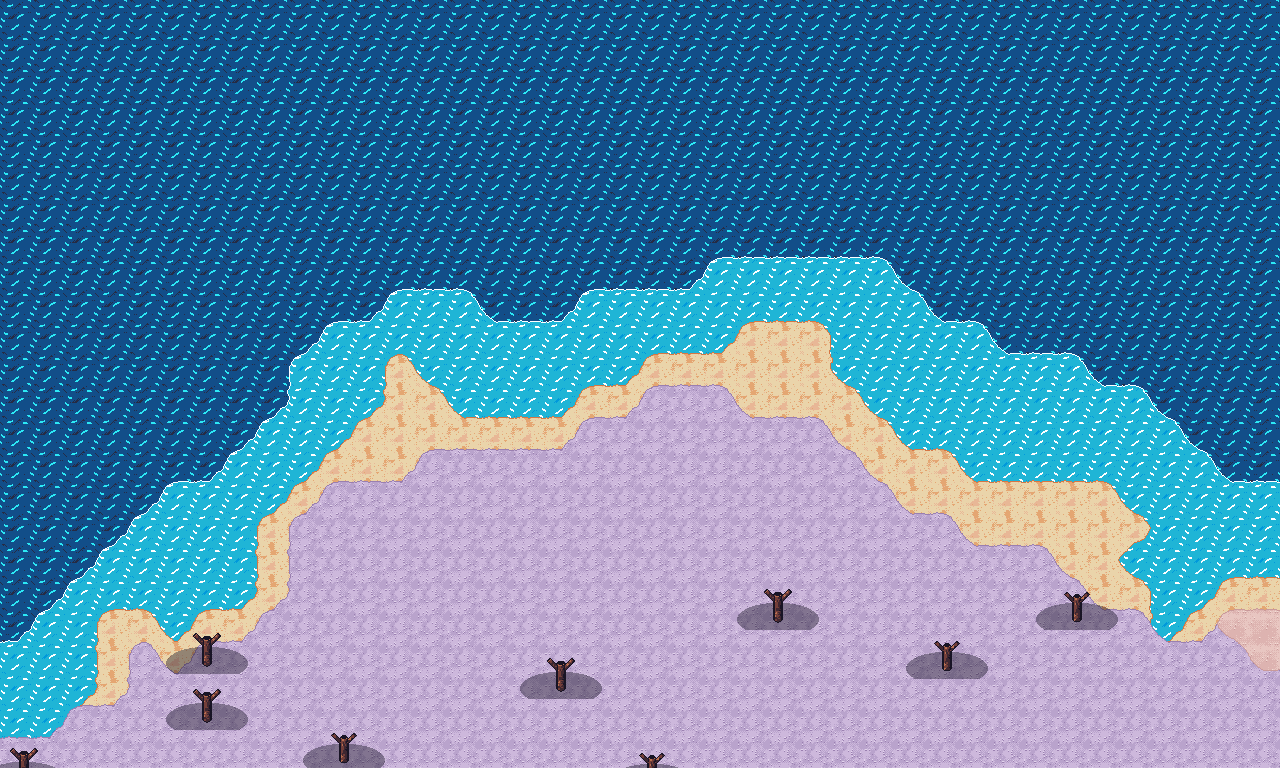
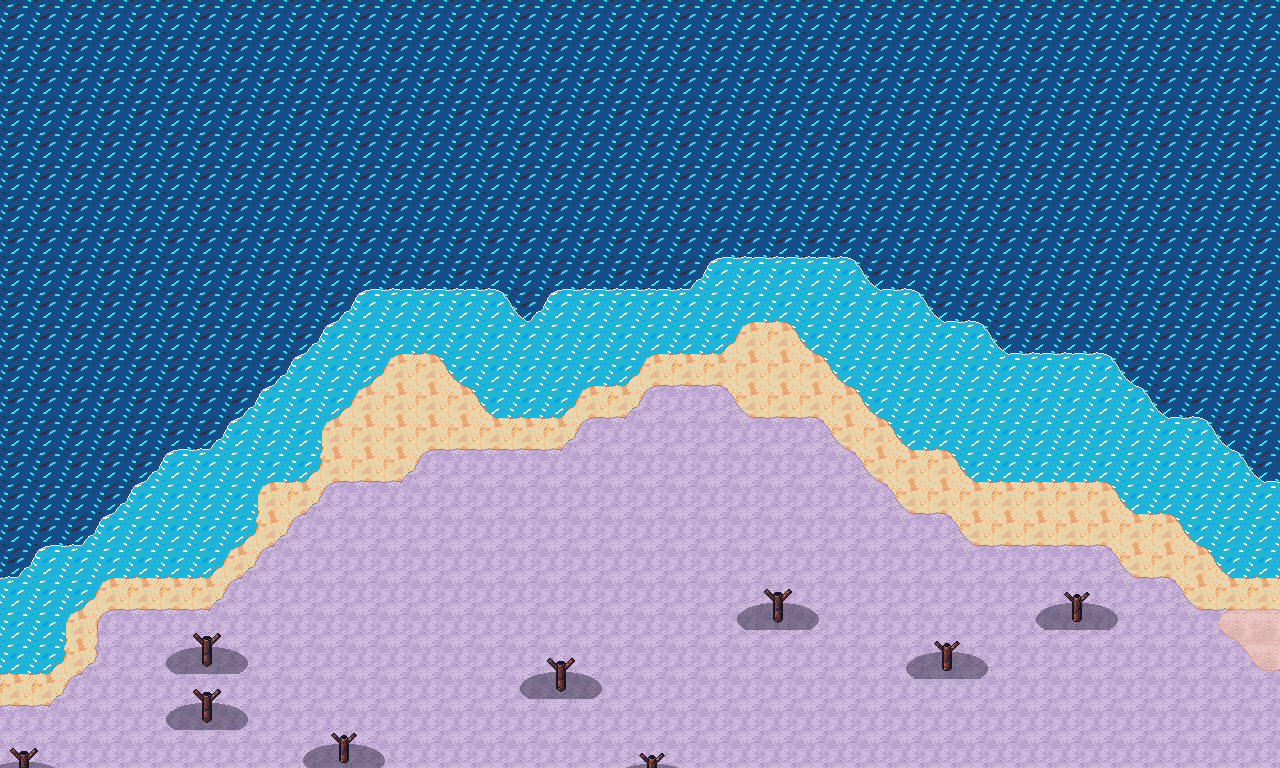
Revisione arte 3.9: scogli in mare, coste senza punte ne' righe dritte
Claude-Session: https://claude.ai/code/session_014ycMSkFAn8ixUvbSfrqtAR

diff --git a/tools/art/build_world.py b/tools/art/build_world.py
@@ -710,14 +710,16 @@ def genera(seed):
     # coste delle spiagge e cerchi dei luoghi irregolari (revisione 3.9): dopo tutto il resto, cosi' strade, alberi e
     # sottosuolo restano quelli approvati (gli alberi finiti su un terreno cambiato si tolgono)
     prima, terra_prima = g.copy(), land.copy()
-    coste_irregolari(g, land, w.biome, altezza, mat_par, faccia, list(luoghi.values()) + list(villaggi.values()),
-                     strade, np.logical_or.reduce(LAGUNE + [np.zeros_like(land)]), seed)
+    scogli = coste_irregolari(g, land, w.biome, altezza, mat_par, faccia,
+                              list(luoghi.values()) + list(villaggi.values()), strade,
+                              np.logical_or.reduce(LAGUNE + [np.zeros_like(land)]), seed)
     for cx, cy, r, t, fuori, ok, nome in cerchi:
         cerchio_irregolare(g, cx, cy, r, L[t], None if fuori is None else L[fuori], ok, nome)
     cambiate = g != prima
     w.water_mask[terra_prima & ~land], w.water_mask[land & ~terra_prima] = True, False
     cambiate |= ispessisci(terra_prima & ~land, 1)          # niente alberi con l'ombra sull'acqua nuova
     w.objects = [o for o in w.objects if not (cambiate[int(o["y"]) % H, int(o["x"]) % W] and o["type"] != "bridge")]
+    w.objects = sorted(w.objects + scogli, key=lambda o: o["y"])
     # dopo tutto il resto (strade, alberi e sottosuolo non cambiano): terreno della cima sotto le pareti, poi le
     # macchie troppo piccole (diventerebbero rombi isolati) prendono il terreno attorno
     w.ground = terreno_sotto(w.ground, altezza, mat_par)
@@ -805,9 +807,12 @@ def coste_irregolari(g, land, reg, altezza, mat_par, faccia, punti, strade, lagu
     """Coste a gradini regolari -> irregolari: la forma della terra si sfuma (i gradini diventano curve) e si
     ritaglia con un rumore fine, spostando il bordo di 1-3 caselle. Fermi: scogliere e moli (materiale), citta'
     (terreni dritti), strade, luoghi e villaggi. Poi la fascia d'acqua bassa, larga 2-6 caselle e arrotondata."""
-    j = 0.6 * fbm(W, H, 6, 3, seed + 311) + 0.4 * fbm(W, H, 16, 2, seed + 312)
+    j = 0.75 * fbm(W, H, 6, 3, seed + 311) + 0.25 * fbm(W, H, 16, 2, seed + 312)
     j = (j - j.mean()) / j.std()
-    nuova = sfuma(sfuma(land, 2), 2) + 0.3 * j > 0.5
+    nuova = sfuma(sfuma(land, 2), 2) + 0.25 * j > 0.5
+    for _ in range(2):                                   # niente punte ne' tacche di una casella (triangoli nel dual grid)
+        n4 = sum(sposta(nuova, sy, sx).astype(int) for sy, sx in ((1, 0), (-1, 0), (0, 1), (0, -1)))
+        nuova = (nuova & (n4 >= 2)) | (~nuova & (n4 >= 3))
     dritti = np.isin(g, [ORDER.index(n) for n in ORDER if TERRAINS[n].get("bordo") == "dritto"])
     fermo = (mat_par != "") | faccia | dritti
     for p in strade:
@@ -817,7 +822,7 @@ def coste_irregolari(g, land, reg, altezza, mat_par, faccia, punti, strade, lagu
     for x, y in punti:
         fermo[max(0, y - 2):y + 3, max(0, x - 2):x + 3] = True
     mare = ~land & (reg == 0)                              # i laghi (ritocchi dei dati) restano come sono
-    vicino = (distanza(mare, 4) <= 4) & (distanza(land, 4) <= 4)
+    vicino = (distanza(mare, 6) <= 6) & (distanza(land, 6) <= 6)
     erodi = land & ~nuova & ~fermo & vicino
     cresci = mare & nuova & ~fermo & vicino
     # niente pozzette d'acqua chiuse ne' briciole di terra staccate (diventerebbero rombi isolati)
@@ -859,6 +864,24 @@ def coste_irregolari(g, land, reg, altezza, mat_par, faccia, punti, strade, lagu
     bassa = sfuma(sfuma(distanza(naturale, 9) <= larga, 2), 1) > 0.5
     g[mare & bassa] = L["water"]
     g[mare & ~bassa & ~lagune] = L["deep_water"]
+    # scogli: nell'acqua bassa a 2-5 caselle dalla riva, a gruppi sui tratti rocciosi (rumore), lontani da citta',
+    # moli e strade, mai due vicini. Numeri casuali propri: il resto del mondo non cambia
+    vietato = ispessisci(dritti | np.isin(mat_par, ["molo", "legno"]) | np.isin(prima_g, [L["molo_pietra"],
+                                                                                         L["pontile_legno"]]), 8)
+    for p in strade:
+        for x, y in p:
+            vietato[max(0, y - 3):y + 4, max(0, x - 3):x + 4] = True
+    d = distanza(naturale, 6)
+    rnd_s = np.random.RandomState(seed + 316)
+    posto = mare & (g == L["water"]) & (d >= 2) & (d <= 5) & ~vietato & ~ispessisci(faccia, 1) \
+        & (fbm(W, H, 20, 2, seed + 315) > 0.62)
+    scogli, preso = [], np.zeros((H, W), bool)
+    for y, x in zip(*np.nonzero(posto & (rnd_s.rand(H, W) < 0.12))):
+        if not preso[max(0, y - 1):y + 2, max(0, x - 1):x + 2].any():           # a gruppetti, mai attaccati
+            preso[y, x] = True
+            scogli.append({"type": "scoglio", "x": x + .5, "y": y + .6, "seed": int(rnd_s.randint(6)),
+                           "size": round(float(rnd_s.uniform(0.8, 1.3)), 2)})
+    return scogli
 
 
 def assorbi_macchie(g, fisso, minimo=6):

diff --git a/tools/art/forge3d/worldrender.py b/tools/art/forge3d/worldrender.py
@@ -25,6 +25,9 @@ def object_sprite(o, S=TILE):
     elif t == "rock":
         r = rock(o["seed"], o.get("mat", "stone"), size=1.5 * k, moss=o.get("moss", False))
         cw, ch, foot = int(48 * k), int(48 * k), 0.8
+    elif t == "scoglio":                                  # roccia nel mare: schiuma alla base, niente ombra a terra
+        r = rock(o["seed"], "stone", size=2.6 * o.get("size", 1.0) * k, moss=False)
+        cw, ch, foot = int(96 * k), int(72 * k), 0.75
     elif t == "bridge":
         from .rig import Rig
         r = Rig("bridge"); r.joint("b", "root", (0, 0, 0))
@@ -34,9 +37,28 @@ def object_sprite(o, S=TILE):
         cw, ch, foot = S, S, 0.5
     else:
         return None
-    img = render(r.instances({}, 180), size=(cw, ch), ppu=1.0, foot=(0.5, foot), shadow=(t != "bridge"))
+    img = render(r.instances({}, 180), size=(cw, ch), ppu=1.0, foot=(0.5, foot), shadow=(t not in ("bridge", "scoglio")))
+    if t == "scoglio":
+        img = _sommerso(img, int(ch * foot) - max(2, int(3 * k)), o["seed"])
     _cache[key] = (img, cw // 2, int(ch * foot))
     return _cache[key]
+
+
+def _sommerso(img, riga, seed):
+    """La parte sotto `riga` va sott'acqua; lungo la linea dell'acqua schiuma a pezzetti (bianco e grigio chiaro)."""
+    pieno = np.nonzero(img[:riga, :, 3].any(0))[0]
+    img = img.copy()
+    img[riga:] = 0
+    if not len(pieno):
+        return img
+    rng = np.random.RandomState(seed)
+    a, b = int(pieno.min()), int(pieno.max())
+    for x in range(max(0, a - 3), min(img.shape[1], b + 4)):
+        fuori = x < a or x > b
+        for y, p in ((riga - 1, 0.35), (riga, 0.9 if not fuori else 0.55), (riga + 1, 0.3)):
+            if 0 <= y < img.shape[0] and rng.rand() < p:
+                img[y, x] = (255, 255, 255, 255) if rng.rand() < 0.7 else (192, 203, 220, 255)
+    return img
 
 
 def render_world(w, region=None, S=TILE, with_objects=True, frame=0, atlases=None, tint=None, sopra=None, strati=None,

diff --git a/arte/revisione_arte.md b/arte/revisione_arte.md
@@ -226,7 +226,7 @@ Legenda: 🔴 alta (rovina la leggibilità o va decisa prima del Blocco C/D) ·
 - **Come correggere:** 2–4 varianti per tile scelte dal seed nel dual grid; dettagli meno
   contrastati; mare con poche onde sparse e animate.
 
-### 🟠 3.6 Pavimenti e moli con bordi "naturali"
+### ✅ 3.6 Pavimenti e moli con bordi "naturali" — FATTO (2026-10-14)
 - **Cosa:** lastre, piazze, moli e pontili usano la stessa transizione ondulata dell'erba:
   la piazza di lastre chiare del porto sembra una macchia di neve, i pontili hanno le punte
   arrotondate e il bordo dentellato verso la spiaggia, un tile di legno da solo diventa un
@@ -249,7 +249,7 @@ Legenda: 🔴 alta (rovina la leggibilità o va decisa prima del Blocco C/D) ·
 - **Come correggere:** le strade proseguono dentro la regione fino al luogo; alberi e rocce
   esclusi dalla strada e da 1 tile ai lati.
 
-### 🟠 3.9 Coste a gradini e luoghi perfettamente rotondi
+### ✅ 3.9 Coste a gradini e luoghi perfettamente rotondi — FATTO (2026-10-14)
 - **Cosa:** la Frontiera è un'ellisse a scalini regolari (sembra una piramide vista
   dall'alto), la fascia d'acqua bassa è larga sempre uguale, rovine, cimitero, archivio e
   isolette nella nebbia sono cerchi perfetti.
@@ -258,10 +258,11 @@ Legenda: 🔴 alta (rovina la leggibilità o va decisa prima del Blocco C/D) ·
 - **FATTO (2026-10-14):** a fine generazione la forma della terra si sfuma e si ritaglia con un rumore
   (golfi e promontori di 1–3 caselle), la spiaggia segue la costa nuova con larghezza 1–2, l'acqua bassa
   è larga 2–6 caselle con il bordo arrotondato; i cerchi (rovine, cimitero, archivio, isolette) hanno il
-  raggio che ondeggia. Fermi: scogliere, moli, città, strade, luoghi, villaggi, laghi. Gli scogli non
-  sono stati aggiunti (servirebbe un oggetto nuovo nel mare).
+  raggio che ondeggia. Fermi: scogliere, moli, città, strade, luoghi, villaggi, laghi. Niente punte né
+  tacche di una casella. **Scogli** (oggetto `scoglio`): rocce mezze sommerse con schiuma, a gruppetti
+  nell'acqua bassa a 2–5 caselle dalla riva, lontano da città, moli e strade (288 nel mondo di prova).
 
-### 🟠 3.10 Acqua del sottosuolo turchese e a pezzetti
+### ✅ 3.10 Acqua del sottosuolo turchese e a pezzetti — FATTO (2026-10-14)
 - **Cosa:** fogne e grotte usano l'acqua bassa tropicale (turchese brillante); nelle fogne
   l'acqua è a pezzetti staccati invece che in canali continui.
 - **Come correggere:** terreni `acqua_fogna` (verde-bruna torbida) e `acqua_grotta` (scura
@@ -346,8 +347,9 @@ l'HUD** (dopo US-8B01 le scritte sono lisce).
 
 1. ~~**Decisioni (nessun codice):** direzione del colore del mondo (3.1) e palette/tratti
    dei VFX (4.1).~~ **Fatto il 2026-10-14:** mondo luminoso, vale `data/vfx.json`.
-2. **Generatore (`forge3d`):** pareti e altezze (3.2), bordi dritti per i terreni
-   costruiti (3.6), varianti dei tile (3.5), scala degli alberi (3.3). Poi si rigenera il
+2. **Generatore (`forge3d`):** ~~pareti e altezze (3.2), bordi dritti per i terreni
+   costruiti (3.6), coste (3.9), acqua del sottosuolo (3.10)~~ fatti; restano varianti dei
+   tile (3.5), scala degli alberi (3.3), pavimenti a scacchiera (3.7), strade (3.8). Poi si rigenera il
    mondo con lo stesso seed e si confronta il prima e il dopo.
 3. **Blocco C** con i punti 1.1 e 1.4–1.13 scritti nei brief: Enel (US-8B30), nemico
    (US-8B31, prima possibile per 1.2), pet (US-8B32).
